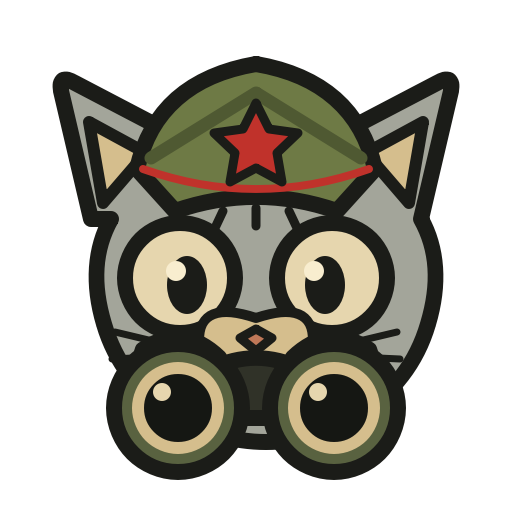
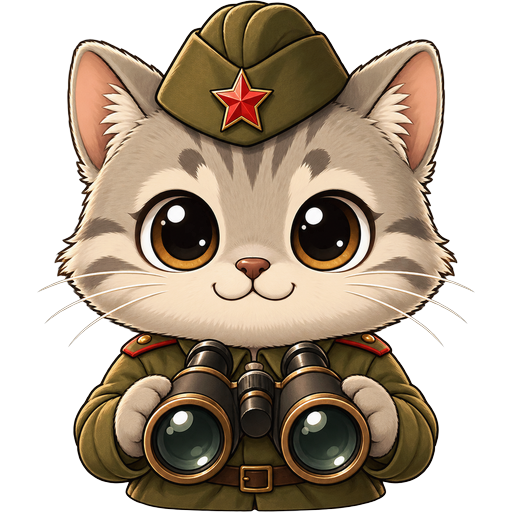
Логотип: финальные арты Ивы — качественный, пиксельный и трио для мелких размеров
Три источника от владельца: качественный арт (app_icon_source.png,
ярлык и крупные размеры иконки 128/256), пиксельный с деталями
(app_logo_pixel.png, логотипы в интерфейсе — LogoGlyph), супер-пиксельное
трио (app_icon_64/32/16.png — мелкие размеры иконки). generate_icon.py
собирает ICO из набора источников по карте размеров. Проверено запуском:
шапка окна, шапка плитки, панель задач.

diff --git a/scripts/generate_icon.py b/scripts/generate_icon.py
@@ -1,60 +1,80 @@
-"""Создаёт многоразмерную Windows-иконку из утверждённого PNG-источника."""
+"""Собирает Windows-иконку из набора PNG-источников Ивы.
+
+Схема (решение Ивы, итерация 4 дизайна):
+- 256/128 — качественный арт `app_icon_source.png` (он же ярлык);
+- 64/48   — пиксельный спрайт `app_icon_64.png`;
+- 32/24/20 — пиксельный спрайт `app_icon_32.png`;
+- 16      — пиксельный спрайт `app_icon_16.png`.
+Спрайты нарезаны из «супер-пиксельного трио» (оригиналы в GlazIvy-docs,
+assets/moodboards/). Интерфейсный логотип — отдельный `app_logo_pixel.png`.
+"""
 
 from __future__ import annotations
 
 import argparse
 from pathlib import Path
 
-from PIL import Image, ImageOps
-
+from PIL import Image
 
 ROOT = Path(__file__).resolve().parent.parent
-ICON_SIZES = (16, 20, 24, 32, 48, 64, 128, 256)
+ASSETS = ROOT / "assets"
+
+# размер в ICO → (файл-источник, )
+SIZE_SOURCES: dict[int, str] = {
+    256: "app_icon_source.png",
+    128: "app_icon_source.png",
+    64: "app_icon_64.png",
+    48: "app_icon_64.png",
+    32: "app_icon_32.png",
+    24: "app_icon_32.png",
+    20: "app_icon_32.png",
+    16: "app_icon_16.png",
+}
 
 
-def make_icon(source_path: Path) -> Image.Image:
-    """Нормализует источник в прозрачный квадрат 256×256 без обрезки."""
+def _fit(image: Image.Image, size: int) -> Image.Image:
+    """Вписывает в прозрачный квадрат size×size без обрезки."""
 
-    with Image.open(source_path) as source:
-        source_rgba = source.convert("RGBA")
-    fitted = ImageOps.contain(
-        source_rgba,
-        (ICON_SIZES[-1], ICON_SIZES[-1]),
-        method=Image.Resampling.LANCZOS,
+    source = image.convert("RGBA")
+    scale = size / max(source.size)
+    fitted = source.resize(
+        (max(1, round(source.width * scale)), max(1, round(source.height * scale))),
+        # Уменьшение пиксель-арта — усредняющим BOX, чтобы не звенел;
+        # качественный арт крупных размеров — LANCZOS.
+        Image.Resampling.LANCZOS if size >= 128 else Image.Resampling.BOX,
     )
-    canvas = Image.new("RGBA", (ICON_SIZES[-1], ICON_SIZES[-1]), (0, 0, 0, 0))
+    canvas = Image.new("RGBA", (size, size), (0, 0, 0, 0))
     canvas.alpha_composite(
         fitted,
-        (
-            (canvas.width - fitted.width) // 2,
-            (canvas.height - fitted.height) // 2,
-        ),
+        ((size - fitted.width) // 2, (size - fitted.height) // 2),
     )
     return canvas
 
 
 def main() -> int:
     parser = argparse.ArgumentParser()
-    parser.add_argument(
-        "--source",
-        type=Path,
-        default=ROOT / "assets" / "app_icon_source.png",
-    )
-    parser.add_argument(
-        "--output",
-        type=Path,
-        default=ROOT / "assets" / "app_icon.ico",
-    )
+    parser.add_argument("--output", type=Path, default=ASSETS / "app_icon.ico")
     args = parser.parse_args()
-    if not args.source.is_file():
-        parser.error(f"PNG-источник не найден: {args.source}")
 
+    frames: dict[int, Image.Image] = {}
+    for size, name in SIZE_SOURCES.items():
+        path = ASSETS / name
+        if not path.is_file():
+            parser.error(f"PNG-источник не найден: {path}")
+        with Image.open(path) as source:
+            frames[size] = (
+                source.convert("RGBA")
+                if source.size == (size, size)
+                else _fit(source, size)
+            )
+
+    sizes = sorted(frames, reverse=True)
     args.output.parent.mkdir(parents=True, exist_ok=True)
-    image = make_icon(args.source)
-    image.save(
+    frames[sizes[0]].save(
         args.output,
         format="ICO",
-        sizes=[(size, size) for size in ICON_SIZES],
+        sizes=[(size, size) for size in sizes],
+        append_images=[frames[size] for size in sizes[1:]],
         bitmap_format="png",
     )
     print(f"Создана иконка: {args.output}")

diff --git a/vhodnaya/ui/widgets.py b/vhodnaya/ui/widgets.py
@@ -218,7 +218,11 @@ def set_action_button_capitalization(button: QAbstractButton) -> None:
 def _logo_pixmap(size: QSize, dpr: float) -> QPixmap | None:
     global _logo_source
     if _logo_source is None:
-        _logo_source = QPixmap(str(resource_path("assets", "app_icon_source.png")))
+        # Пиксельная версия маскота — для логотипов в интерфейсе; качественный
+        # мастер остаётся источником ярлыка и крупных размеров иконки.
+        _logo_source = QPixmap(str(resource_path("assets", "app_logo_pixel.png")))
+        if _logo_source.isNull():
+            _logo_source = QPixmap(str(resource_path("assets", "app_icon_source.png")))
     if _logo_source.isNull():
         return None
 
